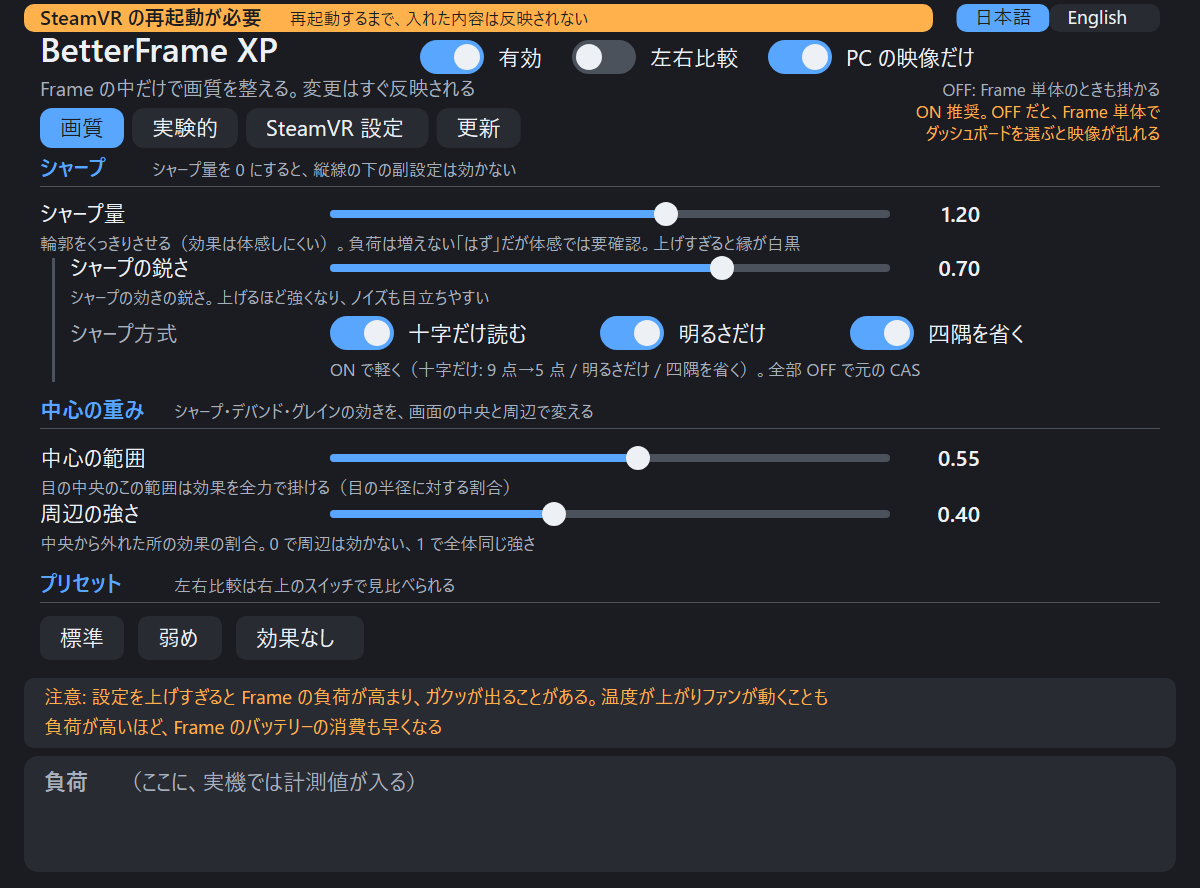
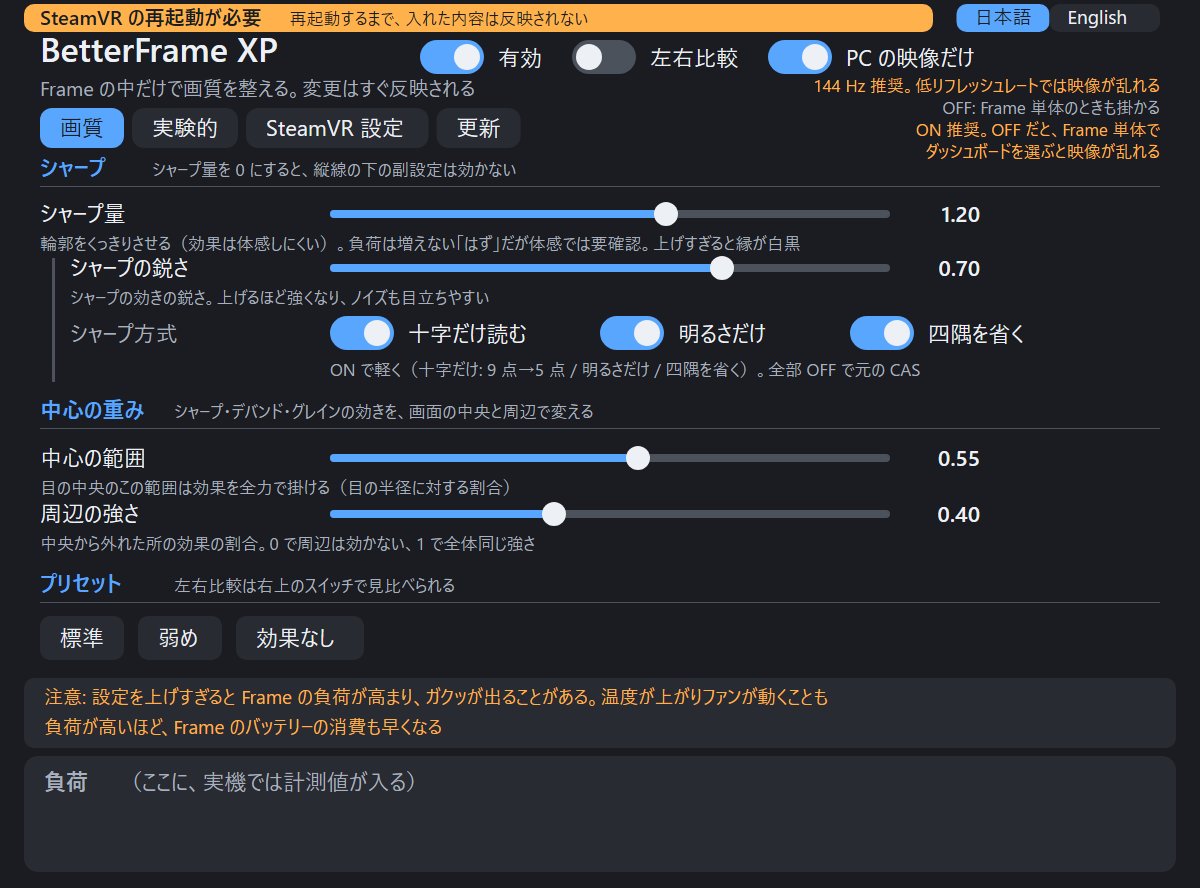
README に before / after の写真を追加し、144 Hz 推奨の注記を足す
- 英語版 README（README.en.md）を追加し、両 README に相互リンク
- インストールコマンドを実際のリポジトリ URL に変更（README、docs/GUIDE.md）
- README の冒頭に、ぼやけた映像をくっきりさせる旨を追記
- パネル右上に「144 Hz 推奨。低リフレッシュレートでは映像が乱れる」の注記を追加
- パネルの画像 3 枚を作り直し
- 効果の例として before / after の写真 4 枚を追加
  （高度なスーパーサンプリング オフ、解像度 250%、144 Hz）

Changed region(s): [[0.6783, 0.0912, 0.9867, 0.1824]]

diff --git a/panel/src/panel_main.cpp b/panel/src/panel_main.cpp
@@ -535,9 +535,12 @@ void drawUi(cairo_surface_t* surface, const FontSet& fonts, const UiState& ui, s
     toggle(pen, streamX, 40, tr("PC の映像だけ", "PC video only"), value(ui, "streamOnly", 1) >= 0.5, hits, HitKind::StreamOnly);
     // 補足は右端でそろえる（英語は長く、左の決め打ちだと画面からはみ出す）
     const double noteX = kWidth - 40;
-    pen.text(noteX, 96, tr("OFF: Frame 単体のときも掛かる", "OFF: also applies when Frame is used alone"), 17, kSub, false, true);
-    pen.text(noteX, 118, tr("ON 推奨。OFF だと、Frame 単体で", "ON recommended. With OFF, choosing a dashboard"), 17, kWarn, false, true);
-    pen.text(noteX, 140, tr("ダッシュボードを選ぶと映像が乱れる", "on Frame alone can garble the video"), 17, kWarn, false, true);
+    // 144 Hz 推奨の注記（スイッチ列の下、右端そろえ）。低いリフレッシュレートでは映像が乱れる
+    pen.text(noteX, 92, tr("144 Hz 推奨。低リフレッシュレートでは映像が乱れる",
+                           "144 Hz recommended. Low refresh rates garble video"), 17, kWarn, false, true);
+    pen.text(noteX, 114, tr("OFF: Frame 単体のときも掛かる", "OFF: also applies when Frame is used alone"), 17, kSub, false, true);
+    pen.text(noteX, 136, tr("ON 推奨。OFF だと、Frame 単体で", "ON recommended. With OFF, choosing a dashboard"), 17, kWarn, false, true);
+    pen.text(noteX, 158, tr("ダッシュボードを選ぶと映像が乱れる", "on Frame alone can garble the video"), 17, kWarn, false, true);
     drawTabs(pen, ui, hits);
     switch (ui.tab) {
         case Tab::Quality: drawQuality(pen, ui, hits); break;

diff --git a/README.en.md b/README.en.md
@@ -1,0 +1,112 @@
+# BetterFrame XP
+
+Japanese: [README.md](README.md)
+
+On Steam Frame, this applies AMD CAS sharpening on the Frame side to the video that the PC sends over Steam Link. It makes the slightly blurry wireless video sharper, and makes the "smeared like mud" look of grass and leaves in VRChat a little less noticeable.
+
+> The docs under `docs/` are in Japanese for now.
+
+> **Status: prototype.** Tested only on one author's Frame. The only effect confirmed so far is sharpening. It is built so it can be removed, but it is not guaranteed to work.
+
+## Why on the Frame side
+
+Over wireless, the video is compressed, and fine patterns are discarded first. Discarded detail cannot be recovered. If you sharpen on the PC, the emphasized detail takes encoder bits again. **If you apply it after decoding (on the Frame), it uses no extra bits.** For details, see the [guide](docs/GUIDE.md#映像が通る道pc--frame) (Japanese).
+
+```
+PC ─ encode ─ wireless ─▶ Frame: decode ─▶ compositor ─▶ ★sharpen here ─▶ display
+```
+
+## Install (one command on the Frame)
+
+```sh
+git clone https://github.com/omuomu0909/betterframe-xp.git && cd betterframe-xp
+sh contrib/setup.sh
+```
+
+The script checks, builds (about a minute), installs, and enables. If something is missing, it stops without changing anything and tells you why. To check only, run `sh contrib/setup.sh --check`.
+
+Then **restart SteamVR while you are not playing** (`setup.sh` does not restart it).
+
+```sh
+~/.local/bin/betterframectl status   # "loaded in vrcompositor" means success
+```
+
+On the PC side, turn **off** sharpening before encoding (`useSharpening`) in SteamVR. Running both applies it twice.
+
+Requirements: Steam Frame (SteamOS, aarch64). Root is not needed. The build tools were already included in SteamOS 0.5.6. The dashboard panel is installed and enabled too. It needs a Japanese font (`noto-cjk` and similar); if that is missing, `setup.sh` stops. To skip the panel, use `--no-panel`. The panel's text is Japanese only for now.
+
+## Usage
+
+Look of the panel (images made with `panel/tools/panel_preview.py --shots`):
+
+| Quality | Update | Restart notice |
+|---|---|---|
+| ![Quality tab](docs/images/panel-quality-ja.png) | ![Update tab](docs/images/panel-update-ja.png) | ![Restart needed](docs/images/panel-restart-ja.png) |
+
+These are not screenshots from the device. They are mockups of the panel's HTML, with default values. The load field is where measured values appear on the device.
+
+- **The "BetterFrame XP" panel on the dashboard**: adjust the look while you watch it. Tabs: Quality / Experimental / SteamVR settings / Update (the labels are in Japanese). The top right has the switches "Enabled", "Side-by-side", and "PC video only". The Quality tab has sharpness, center weight, and presets. The Experimental tab is split into sections for deband, sharpening assist, and grain. Sub-settings under the vertical line have no effect when that section's amount (sharpen, deband, or grain amount) is 0. Only the switches on the SteamVR settings tab change the SteamVR settings on the Frame itself. Each tab's Tips explain what turning each switch off does.
+- When you do not need the panel, hover over the BetterFrame XP icon in the icon bar under the dashboard and press "Close". The panel program exits, and **"Enabled" turns OFF** (the `enabled` setting becomes 0, so sharpening and the rest pass through). This prevents the effect from staying on with no screen to control it. Other values do not change. The panel appears again at the next SteamVR start, but "Enabled" stays OFF, so turn it on yourself when you want to use it. To keep it from appearing at all, run `betterframectl panel-off`.
+- To open it again after closing, pick "BetterFrame XP" from the "+" button list on the dashboard. (Install places a `.desktop` file and an icon in `~/.local/share/applications/`. If it is already running, nothing happens.) After it opens, turn "Enabled" on in the top right.
+- Or from the command line:
+
+```sh
+betterframectl set sharpenAmount 1.0   # sharpening amount (0 means none)
+betterframectl off                     # pass through immediately
+betterframectl on
+```
+
+- **"SteamVR restart required"**: after you install or update, the change does not take effect until SteamVR restarts. An orange band at the top of the panel shows "SteamVR restart required". Restart while you are not playing. This tool does not restart SteamVR itself. The band disappears after a restart. The check compares whether the layer is enabled with whether the running vrcompositor has loaded the latest layer from after the install.
+- **Update**: on the Update tab, the panel checks the latest GitHub release. If there is a newer one, "Update to this version" replaces the installed files. The downloaded file's SHA-256 is verified before it is installed. The replacement runs in a separate process at low priority and continues even if you close the panel. SteamVR is not restarted, so the change takes effect at the next SteamVR start. Automatic checks every hour can be turned off on the same tab. Only public GitHub releases can be checked; a private repository cannot be seen. To update by hand, run `git pull` and then `sh contrib/install.sh`, as before.
+Example of the effect (photos the author took of the Frame's display. Conditions: advanced supersampling off, resolution 250%, refresh rate 144 Hz):
+
+| before | after |
+|---|---|
+| ![before 1](docs/images/fx-before-1.jpg) | ![after 1](docs/images/fx-after-1.jpg) |
+| ![before 2](docs/images/fx-before-2.jpg) | ![after 2](docs/images/fx-after-2.jpg) |
+
+These are from one author on one device, judged by eye. They are photos of a screen, so scan lines and moire show.
+
+- The effect is hard to see. **Raising the strength should not raise the load, in theory.** The sharpening amount is used only in the final multiplication, so the pixels read and the amount of computation are the same. The load changes only between 0 and above 0. Changing the strength has not been measured. However, the author found that stronger settings tended to cause a sudden hitch. This **does not match the expectation from the formula, and it is unresolved**. If raising the strength adds hitches, lower it. See A-3 in [docs/STUTTER.md](docs/STUTTER.md) (Japanese).
+- To check whether it is working, run `betterframectl set showSplit 1`. This draws a line down the center of each eye: the left side is passed through, and the right side is processed.
+- For what each value means, and **which effects can be said to be confirmed**, see the [settings reference](docs/SETTINGS.md) (Japanese).
+- The docs separate what a change "should" do (predictions from formulas and code) from what the author **actually experienced** (one author, one Frame). When others try this, please treat the first as a guide.
+
+## Revert
+
+```sh
+betterframectl disable     # do not load it from the next SteamVR start
+betterframectl uninstall   # remove everything (with SteamVR running)
+```
+
+If SteamVR keeps failing to start, there is also a mechanism that removes the layer automatically. See the [guide](docs/GUIDE.md#起動に失敗したとき自動ガード) (Japanese).
+
+## Things to know
+
+> **Caution: if you raise the settings too high, the Frame's GPU load increases, and hitches (stutter) may occur.** As the load rises, the Frame's temperature rises too, and the fan may spin. **Battery drain also gets faster.** Watch the "Load" number (GPU ms) under the panel, and do not push the settings too far. For the types of stutter, see [docs/STUTTER.md](docs/STUTTER.md) (Japanese).
+
+- **The current build has not been checked inside the headset.** It is at the stage of being checked after a SteamVR restart.
+- **At 72 Hz or 80 Hz, sharpening may cause hitches at regular intervals.** This was seen on the author's one Frame. The cause is not yet known. **Use 144 Hz, or set `sharpenAmount` to 0 at 72 or 80 Hz.** The author's notes say that turning sharpening off stopped the hitches. See section F of [docs/STUTTER.md](docs/STUTTER.md) (Japanese).
+- The panel's "gaze correction" switch is the only one that writes to **SteamVR's settings** (two Frame eye-tracking correction settings) rather than to this layer. It writes only when pressed. The original values are saved first, and `uninstall` restores them. In the author's environment, turning it off reduced the wobble. That is one person's impression on one device.
+- Lost detail cannot be recreated. This is not super-resolution. Raising `sharpenAmount` above 1 tends to produce black-and-white outlines along edges.
+- An OS or SteamVR update may break it.
+- The Experimental tab (deband, grain, and so on) has not been evaluated enough visually.
+- **Changing the deband amount can cause the video to break up.** This is also noted in the Experimental tab. If that happens, set `debandAmount` back to 0. The conditions and the cause have not been investigated yet.
+
+## Further reading
+
+All of these are in Japanese.
+
+| Document | Contents |
+|---|---|
+| [docs/GUIDE.md](docs/GUIDE.md) | Detailed guide: the video path, a list of where files go, technical notes on each correction, how to revert, known issues |
+| [docs/SETTINGS.md](docs/SETTINGS.md) | List of settings, and what has and has not been confirmed |
+| [docs/STUTTER.md](docs/STUTTER.md) | Six kinds of "hitch", and which ones this tool does and does not affect. How to tell them apart when a hitch appears |
+| [docs/ARCHITECTURE.md](docs/ARCHITECTURE.md) | Implementation notes: layer, video detection, measurement |
+| [THIRD_PARTY.md](THIRD_PARTY.md) | Code this project is based on, and its licenses |
+
+## License
+
+MIT License ([LICENSE](LICENSE)). Copyright (c) 2026 omuomu0909.
+
+Some of the code this project is based on is under other licenses. See [THIRD_PARTY.md](THIRD_PARTY.md) and the `LICENSE` in each directory. The layer is zlib, parts of the panel are MIT, the OpenVR headers are BSD-3-Clause, and CAS and deband are MIT.

diff --git a/README.md b/README.md
@@ -1,6 +1,8 @@
 # BetterFrame XP
 
-Steam Frame で、PC から Steam Link で送られてくる映像に**シャープ（AMD CAS）を Frame 側で後掛け**する。VRChat の草や葉が「泥のように」つぶれるのを、少し目立たなくするための道具。
+English: [README.en.md](README.en.md)
+
+Steam Frame で、PC から Steam Link で送られてくる映像に**シャープ（AMD CAS）を Frame 側で後掛け**する。無線で少しぼやけた映像をくっきりさせ、VRChat の草や葉が「泥のように」つぶれるのを目立たなくするための道具。
 
 > **状態: 試作。** 作者の Frame 1 台でしか確認していない。効果が確認できているのはシャープだけ。入れても戻せる作りにしてあるが、動作の保証はない。
 
@@ -15,7 +17,7 @@ PC ─ エンコード ─ 無線 ─▶ Frame: デコード ─▶ コンポジ
 ## インストール（Frame 上で 1 コマンド）
 
 ```sh
-git clone <このリポジトリ> && cd betterframe-xp
+git clone https://github.com/omuomu0909/betterframe-xp.git && cd betterframe-xp
 sh contrib/setup.sh
 ```
 
@@ -54,6 +56,15 @@ betterframectl on
 
 - **「SteamVR の再起動が必要」**: 入れたり更新したりしたあと、SteamVR を再起動するまで内容は反映されない。パネルの上に橙色の帯で「SteamVR の再起動が必要」と出るので、遊んでいないときに再起動する（このツールは再起動しない）。再起動すると帯は消える。判定は、レイヤーを有効にしてあるかと、動いている vrcompositor が読み込んでいるレイヤーが最新の入れ替え後のものか、の比較。
 - **更新**: 「更新」タブで、GitHub の最新リリースを確認し、新しければ「この版に更新する」で入れ替えられる。ダウンロードしたファイルは SHA-256 を確かめてから入れる。入れ替えは別のプロセスで低い優先度で動き、パネルを閉じても続く。SteamVR は再起動しない（反映は次の SteamVR 起動から）。1 時間ごとの自動確認は同じタブで切れる。GitHub の公開リリースだけを見る（非公開リポジトリは確認できない）。手動で更新するなら、これまでどおり `git pull` して `sh contrib/install.sh`。
+効果の例（作者が Frame の画面を撮った写真。撮影条件: 高度なスーパーサンプリング オフ、解像度 250%、リフレッシュレート 144 Hz）:
+
+| before | after |
+|---|---|
+| ![before 1](docs/images/fx-before-1.jpg) | ![after 1](docs/images/fx-after-1.jpg) |
+| ![before 2](docs/images/fx-before-2.jpg) | ![after 2](docs/images/fx-after-2.jpg) |
+
+写真は 1 人・1 台で、見た目の評価は作者の目による。画面を撮った写真なので、走査線やモアレが写っている。
+
 - 効果は体感しにくい。**強さを上げても負荷は増えない「はず」**（シャープ量は最後の掛け算に使うだけで、読む画素も計算の量も同じ。負荷が変わるのは 0 か、0 より大きいかだけ。強さを変えての測定はしていない）。ただし作者の体感では「強めの設定ほどガクッとなりやすい」で、式のうえの予想と**食い違っている（未解決）**。強さを上げて引っかかりが増えたら下げてほしい。詳しくは [docs/STUTTER.md](docs/STUTTER.md) の A-3。
 - 効いているかは、`betterframectl set showSplit 1` で各目の中央に線を引き、左は素通し・右は処理後で見比べる。
 - 値の意味と、**どれが効いていると言えるか**は [設定リファレンス](docs/SETTINGS.md)。
